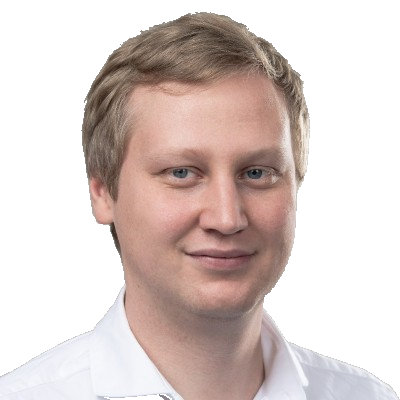
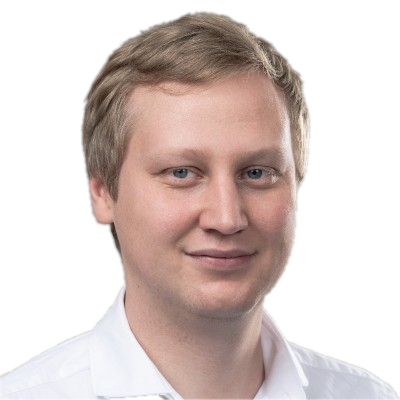
Doladění portrétu a profilu expertů

diff --git a/index.html b/index.html
@@ -417,6 +417,8 @@
             width: min(100%, 360px);
             aspect-ratio: 1;
             justify-self: end;
+            -webkit-mask-image: linear-gradient(to bottom, #000 0%, #000 84%, transparent 100%);
+            mask-image: linear-gradient(to bottom, #000 0%, #000 84%, transparent 100%);
         }
 
         .profile-portrait img {
@@ -961,6 +963,8 @@
                 width: 112px;
                 justify-self: start;
                 margin: 0;
+                -webkit-mask-image: linear-gradient(to bottom, #000 0%, #000 88%, transparent 100%);
+                mask-image: linear-gradient(to bottom, #000 0%, #000 88%, transparent 100%);
             }
 
             .profile-facts {
@@ -1274,7 +1278,7 @@
                 focus_digital_desc: "Návrh B2B/B2C portálů, SAP e-commerce a EDI integrací pro Evropu i Severní Ameriku. Zkušenost z Mitas, od roku 2017 součásti Trelleborg Group.",
                 language_short: "<strong>CZ</strong> rodilý · <strong>EN</strong> C1 · <strong>DE</strong> pasivně",
                 cap_title: "Chybí vám zkušení IT specialisté?",
-                cap_desc: "Kromě mých vlastních architektonických kapacit dokáži díky letité praxi zajistit prověřené IT experty – od seniorních vývojářů přes SAP konzultanty, datové inženýry až po krizové projektové manažery.",
+                cap_desc: "Vedle vlastních konzultačních služeb mohu díky dlouholeté praxi zajistit prověřené IT specialisty napříč rolemi – od seniorních vývojářů a SAP konzultantů po datové inženýry a krizové projektové manažery.",
                 cap_btn: "Poptat expertní kapacity",
                 cap_chip: "Hledám prověřené IT experty/kapacity do týmu",
                 footer_rights: "Všechna práva vyhrazena.",
@@ -1367,7 +1371,7 @@
                 focus_digital_desc: "Design and delivery of B2B/B2C portals, SAP e-commerce, and EDI integrations across Europe and North America. Experience at Mitas, part of Trelleborg Group since 2017.",
                 language_short: "<strong>CZ</strong> native · <strong>EN</strong> C1 · <strong>DE</strong> passive",
                 cap_title: "Missing experienced IT specialists?",
-                cap_desc: "In addition to my own architectural capacities, my years of practice allow me to source proven IT experts – from senior developers to SAP consultants, data engineers, and crisis project managers.",
+                cap_desc: "Alongside my consulting work, I can draw on years of experience to source trusted IT specialists across roles – from senior developers and SAP consultants to data engineers and project turnaround leads.",
                 cap_btn: "Request Expert Capacities",
                 cap_chip: "I am looking for proven IT experts for our team",
                 footer_rights: "All rights reserved.",
